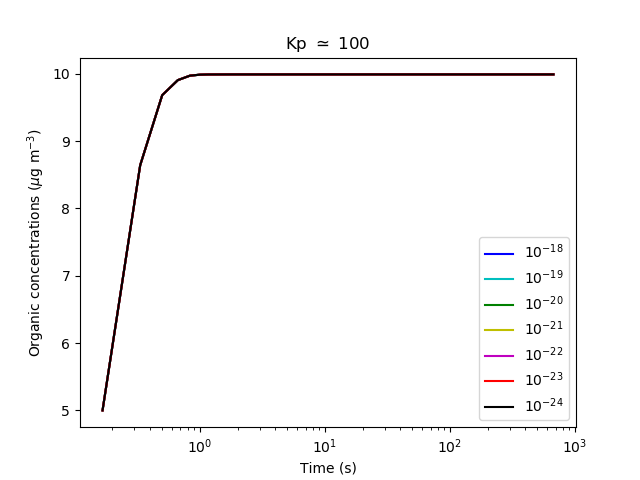
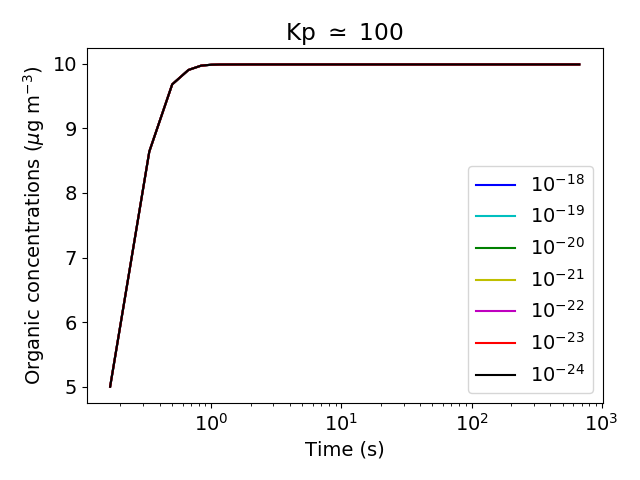
Improve size legend of figures.

diff --git a/graph/conc_visco_poalp.py b/graph/conc_visco_poalp.py
@@ -35,6 +35,10 @@ namefic8 = '../results/visco/visco8_poalp/aero/'
 species1 = 'PPOAlP_1.txt'
 species2 = 'PSOAlP_1.txt'
 
+font = {'size'   : 14}
+matplotlib.rc('font', **font)
+matplotlib.pyplot.xticks(fontsize=14)
+
 with open (namefic2+species1) as f1 :
 	values = f1.read().splitlines()
 with open (namefic2+species2) as f2 :
@@ -119,6 +123,7 @@ title("Kp $\simeq$ 1")
 xlabel('Time (s)')
 ylabel('Organic concentrations ($\mu$g m$^{-3}$)')
 legend(loc ='best')	
+plt.tight_layout()
 savefig("visco_poalp.png")
 
 

diff --git a/graph/conc_visco_soalp.py b/graph/conc_visco_soalp.py
@@ -34,6 +34,10 @@ namefic8 = '../results/visco/visco8_soalp/aero/'
 
 species1 = 'PSOAlP_1.txt'
 
+font = {'size'   : 14}
+matplotlib.rc('font', **font)
+matplotlib.pyplot.xticks(fontsize=14)
+
 with open (namefic2+species1) as f1 :
 	values = f1.read().splitlines()
 for i in range(len(values)) :
@@ -109,4 +113,5 @@ title("Kp $\simeq$ 100")
 xlabel('Time (s)')
 ylabel('Organic concentrations ($\mu$g m$^{-3}$)')
 legend(loc ='best')
+plt.tight_layout()
 savefig("visco_soalp.png")

diff --git a/graph/conc_visco_poamp.py b/graph/conc_visco_poamp.py
@@ -36,6 +36,10 @@ namefic8 = '../results/visco/visco8_poamp/aero/'
 species1 = 'PPOAmP_1.txt'
 species2 = 'PSOAlP_1.txt'
 
+font = {'size'   : 14}
+matplotlib.rc('font', **font)
+matplotlib.pyplot.xticks(fontsize=14)
+
 with open (namefic2+species1) as f1 :
 	values = f1.read().splitlines()
 with open (namefic2+species2) as f2 :
